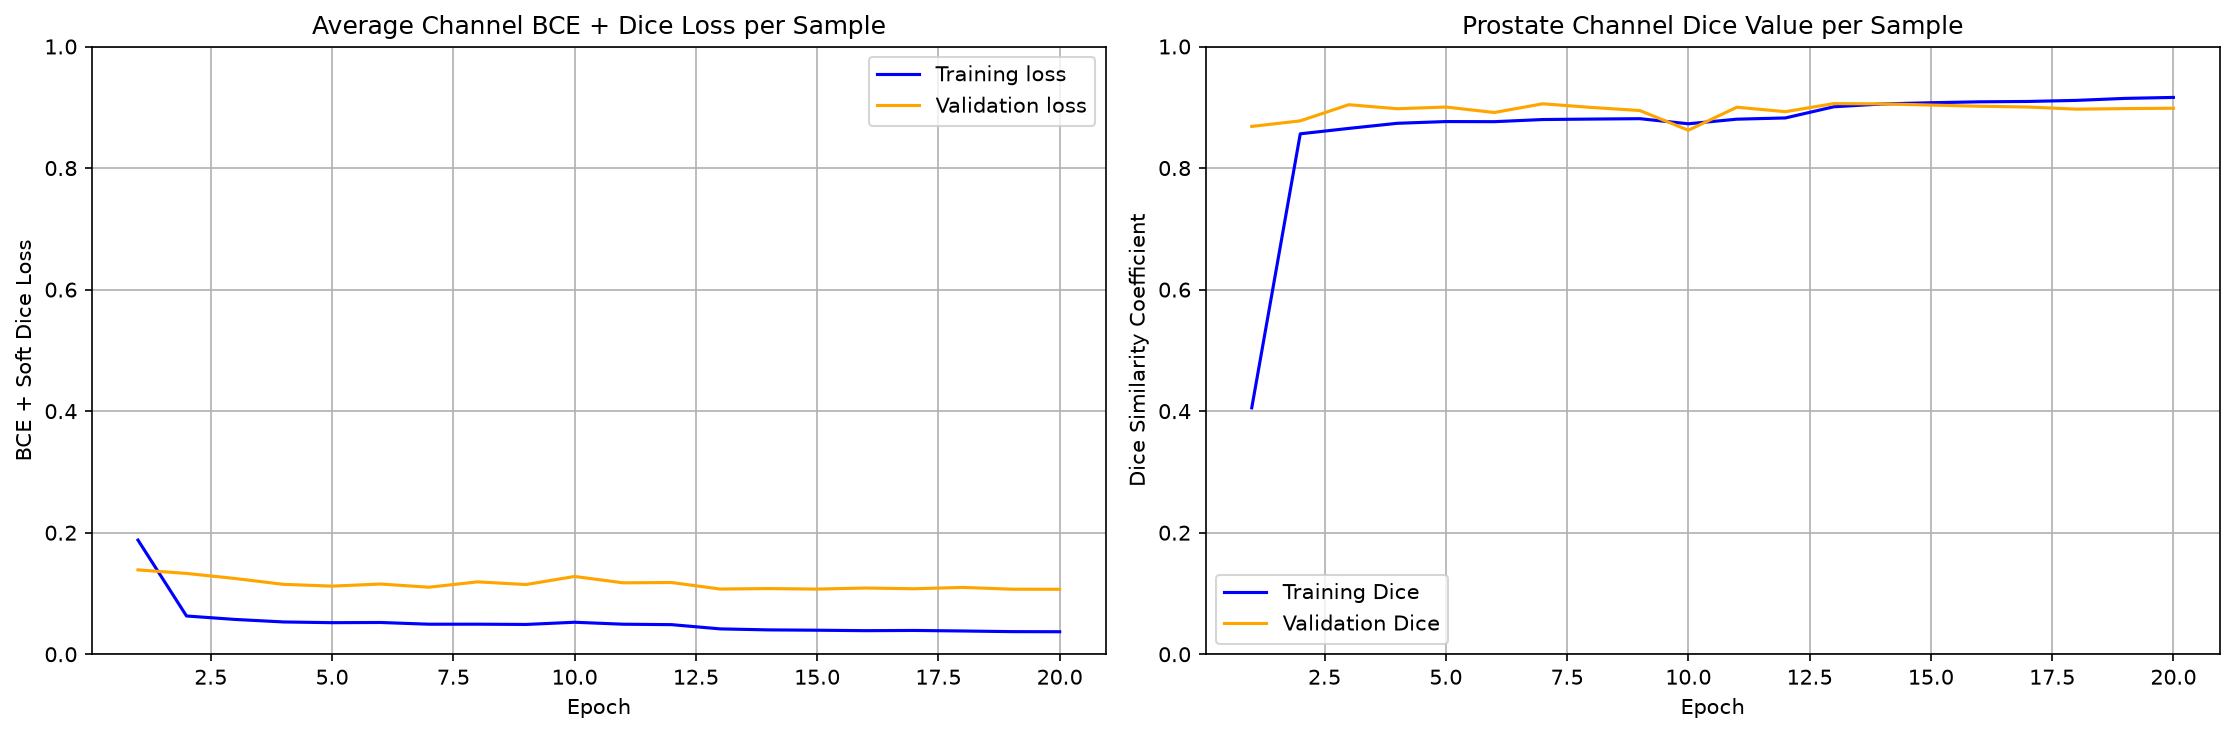
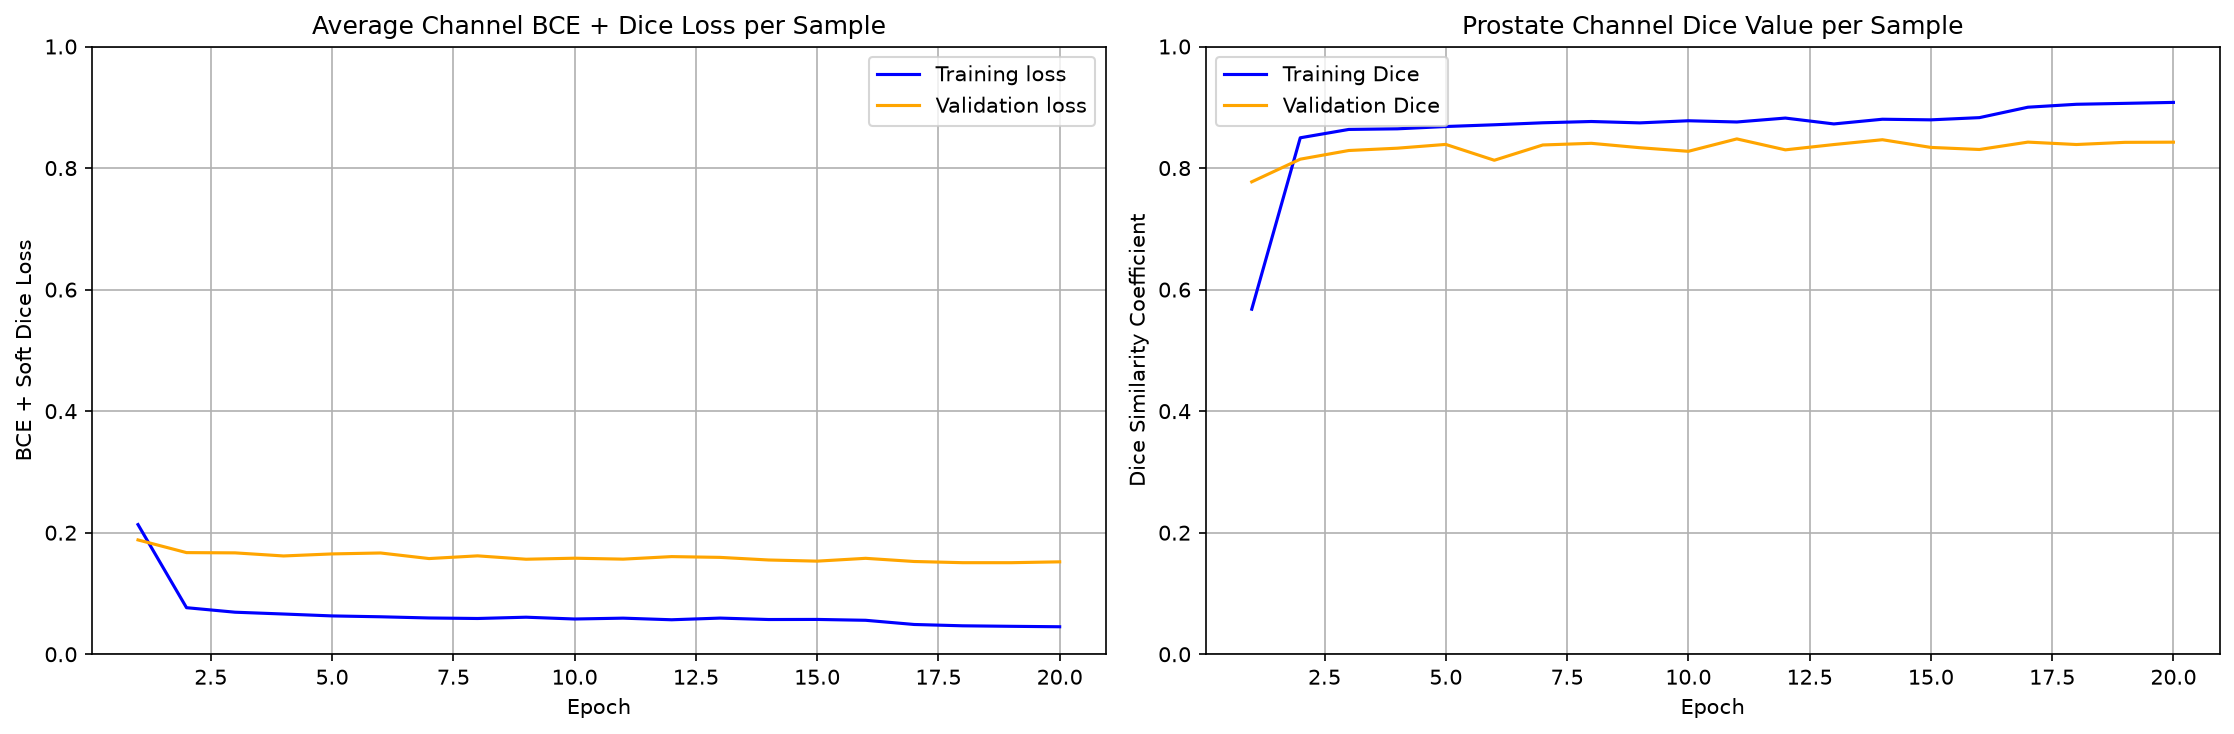
Update README to reflect new results.

diff --git a/recognition/UNet_s48831653/README.md b/recognition/UNet_s48831653/README.md
@@ -1,7 +1,11 @@
 # Evaluation of 2D U-Net vs 2D Convolutional Aggregate Network performance and resource use for the segmentation of HipMRI scans for targeted radiation therapy of the prostate
-Data were provided by HipMRI Study for image segmentation - https://arxiv.org/abs/1505.04597
+Data were provided by HipMRI Study for image segmentation - https://doi.org/10.1016/j.ijrobp.2015.08.045
 
 ## Overview of the Model
+### Model References
+- U-Net: Ronneberger, O., Fischer, P., & Brox, T. (2015). U-Net: Convolutional networks for biomedical image segmentation. arXiv (Cornell University). https://doi.org/10.48550/arxiv.1505.04597
+- CAN: Yu, F., & Koltun, V. (2015). Multi-scale context aggregation by dilated convolutions. arXiv.Org. https://doi.org/10.48550/arXiv.1511.07122
+
 A 2D U-Net and 2D convolutional aggregate network (CAN) have been implemented to aid in the segmentation of the prostate in HipMRI scans for the purpose of targeted radiation therapy. Due to the risks associated with both under- and over-contouring, it is of interest to compare the prostate segmentation accuracy and the resource requirements of both models to determine which is more appropriate for clinical use.
 
 The models can be trained by running train_and_validate(UNet, num_epochs) in train.py, inputting boolean variable 'UNet' to select which model. The model's time, Dice, Intersection Over Union, peak VRAM and number of parameters are reported. A training vs validation loss plot will be saved under "2Dmodel_loss_plot.png", and the optimal model will be saved under "best_2Dmodel.pth" where 'model' is either Unet or CAN.
@@ -36,7 +40,7 @@ This repository was trained and evaluated on the Rangpur HPC cluster with the fo
 - torchvision=0.22.1+cu118 
 - matplotlib=3.11.1 
 
-The results discussed in this report were produced without setting seed. If desired, the seeds for python, numpy and torch can be set for reproducible results.
+The results discussed in this report were produced without setting seed. Note, the results below follow the trend of the completed runs. If desired, the seeds for python, numpy and torch can be set for reproducible results.
 
 ## Data Preprocessing
 To prevent data-leakage, all MRI slices belonging to the same patient are strictly assigned to the same data split, as misleading results would be produced if the same anatomy were present across sets. Specifically, training was performed on slices from patients 4 to 35, validation on patients 36 to 39, and testing on patients 40-42.
@@ -50,12 +54,12 @@ Training and Validation is executed with train_and_validate() from train.py, wit
 
 Upon completion of all epochs, general performance values are reported. These are displayed below. Additionally, each training and validation epoch records their respective prostate channel loss per sample and average combined BCE and dice loss per channel per sample, which are graphed against epochs. These are also presented below, for each model.
 
-|**Training and Validation Performance Results**    | 2D U-Net | 2D CAN |
-| -------- | -------- | -------- |
-| Total Number of Trainable Parmeters               | 31,036,741 | 406,405  |
-| Peak Training/Validation GPU VRAM (GB)            | 3.2254     | 3.5261   |
-| Average Training/Validation Epoch Duration (s)    | 47.684     | 49.729s  |
-| Saved Model's Validation Prostate Dice            | 0.904217   | 0.906043 |
+|**Training and Validation Performance Results** | 2D U-Net   | 2D CAN     |
+| --------                                       | ---------- | ---------- |
+| Total Number of Trainable Parmeters            | 31,036,806 | 406,470    |
+| Peak Training/Validation GPU VRAM (GB)         | 3.2272     | 3.5300     |
+| Average Training/Validation Epoch Duration (s) | 48.983s    | 50.924s    |
+| Saved Model's Validation Prostate Dice         | 0.86442262 | 0.84794974 |
 
 ### Training and Validation Loss and Prostate Segmentation Dice per Epoch
 **2D UNet:**
@@ -69,69 +73,55 @@ Testing involves the evaluation of the model's prediction for each sample. These
 
 **Example prediction output image:**
 
-Mask Colour Key: *Prostate=Red, Body Outline/Rectum=Black, Bladder=Teal, Bone=Brown, Body=Green*
+Mask Colour Key: *Prostate=Yellow, Rectum=Red, Body Outline=Black, Bladder=Teal, Bone=Brown, Body=Green*
 
 Error Map Colour Key: *True Positive = Green, False Positive = Red, False Negative = Blue*
 ![alt text](Figures/prediction_image_example.png)
 
 |**Testing Performance Results**           | 2D U-Net | 2D CAN |
 | -------- | -------- | -------- |
-| Peak Testing GPU VRAM (GB)               | 1.1256     | 0.4079   |
-| Average Sample Evaluation Duration (s)   | 0.370087   | 0.367726 |
-| Average Testing Dice                     | 0.874180   | 0.878067 |
+| Peak Testing GPU VRAM (GB)               | 1.1328      | 0.4138      |
+| Average Sample Evaluation Duration (s)   | 0.37846585s | 0.37848915s |
+
+|**Dice/IoU Results**                     |2D U-Net Dice| 2D CAN Dice|2D U-Net IoU| 2D CAN IoU | 
+| --------                                 | --------   | --------   | --------   | --------   |
+| Average Testing Background Dice          | 0.97319245 | 0.97517681 | 0.94778460 | 0.95155615 |
+| Average Testing Body/Soft Tissue Dice    | 0.97836411 | 0.97835832 | 0.95764464 | 0.95763355 |
+| Average Testing Bone Dice                | 0.92803913 | 0.92811620 | 0.86573976 | 0.86587393 |
+| Average Testing Bladder Dice             | 0.95796382 | 0.96078819 | 0.91931915 | 0.92453551 |
+| Average Testing Rectum Dice              | 0.86962932 | 0.83781344 | 0.76933110 | 0.72089410 |
+| Average Testing Prostate Dice            | 0.86311150 | 0.86265260 | 0.75918740 | 0.75847768 |
 
 ## Discussion of Results
-The performance results outlined above, show comparable prostate channel dice scores during validation and testing, with a slightly larger decrease in the 2D U-Net's performance at testing. Similarly, the training times are comparable, with the U-Net being slightly faster to train and slower to evaluate.
+The performance results outlined above, show comparable prostate channel dice scores during validation and testing, with a slightly larger decrease in the 2D U-Net's performance at testing. Additionally, the U-Net training is slightly slower and the evaluation time (including image construction) is equal.
 
-The greatest difference in the models is the number of trainable parameters, which is significantly larger for the U-Net in comparison to the CAN. This likely contributes to the approximately tripled GPU VRAM peak observed during testing. Additionally, observation of the loss plots, suggests the CAN provides stabler training, in comparison to the U-Net. Specifically, the CAN appears to stabilise after epoch 4 with stable and approximately equal Dice scores. The U-Net validation loss stablises after 15 epochs, and has significant variation in prostate channel dice in comparison to the CAN plot.
+The greatest difference in the models is the number of trainable parameters, which is significantly larger for the U-Net in comparison to the CAN. This likely contributes to the approximately tripled GPU VRAM peak observed during testing. Additionally, observation of the loss plots suggests the CAN provides stabler training, in comparison to the U-Net. In particular, the CAN's prostate validation Dice has less variation and closer to the training validation.
 
 Upon inspection of the prediction results, transitions between neighbouring slices produced by the CAN are notably smoother compared to the UNet model. Regardless, both models were observed to have the following common failure cases:
 
 ### 1. Small prostate false negatives:
-Often occurs in the MRI slices where the prostate initially appears or where a new prostate segment appears separate from a pre-existing section, that combine in a later sample. Due to the small area of these segments, both the 2D U-Net and 2D CAN models, will produce false negatives. This is likely due to the similarities with neighbouring samples with almost identical anatomical structure but with no prostate segmentations. Additionally, these small prostate segmentation cases may only be reflected in the initial 2-3 slices from a scan, where the more general prostate segmentation case would have 10-15 slices to train with, and so, the model is less familiar with predicting small prostate segments. Examples of these false negative predictions are given below, where the false negative segmentations are blue in the error map.
+Prostate false negatives often occur in the MRI where the prostate initially appears as a small segmentation. This is likely due to the similarities with neighbouring samples with almost identical anatomical structure but with no prostate segmentations. Additionally, these small prostate segmentation cases may only be reflected in the initial 2-3 slices from a scan, where the more general prostate segmentation case would have 10-15 slices to train with, and so, the model is less familiar with predicting small prostate segments. An example of these false negative predictions are given below, where the false negative segmentation is blue in the error map.
 
-**Example false negative prediction of an initial small prostate segmentations:**
+**Example false positive small prostate segmentations:**
+![alt text](Figures/example_case1.png)
 
-![alt text](Figures/ex_FN_initial_segment.png)
+### 2. False positive prostate segmentation neighbouring the bladder:
+False positive prostate segmentations were observed to often occur between the prostate and the bladder, for both models. This most commonly occurred where the prostate and bladder segmentations separate, with the models predicting this separation later in the patient's set of MRI scans. This is likely due to a greater abundance of training samples with the prostate and bladder segmentations neighbouring each other and a lack of 3D spatial context, since the models are predicting these segmentations independent of the adjacent MRI slices. An example of this false positive segmentation is given below. 
 
-**Example false negative prediction of new small prostate segmentations:**
+**Example false positive prostate segmentations neighbouring the bladder:**
+![alt text](Figures/example_case2.png)
 
-![alt text](Figures/ex_FN_new_segment.png)
+### 3. False positive prostate segmentation replacing the rectum:
+False positive prostate segmentations were observed to be predicted at the ground truth rectum segmentation. This most often occurred where the rectum initially appeared, and so, likely is a result of limited samples of this case. Additionally, because the model's are independently predicting these MRI slices, they lack the 3D spatial context that indicates when this case appears compared to adjacent samples. Examples of this case are given below
 
-### 2. Small prostate false positives:
-Similarly to failure case 1, this will occur in MRI slices where the prostate is expected to initially appear, or new segments usually appear. This occurs in both the 2D U-Net and 2D CAN models, where the model will predict a small new prostate segment that is not present in the sample. This is likely due to the same reasons as described in failure case 1 above. Examples of these false positive predictions are given below, where the false positive segmentations are red in the error map.
+**Example false positive prostate segmentation, replacing the rectum:**
+![alt text](Figures/example_case3-1.png)
+![alt text](Figures/example_case3-2.png)
 
-**Example false positive prediction of new small prostate segmentations:**
+## Conclusion
+The 2D CAN is recommended over the 2D U-Net for use in segmenting the prostate in HipMRI images. In comparison to the U-Net, the CAN reported approximately equal channel dice during validation and testing. Both models had equal training time per epoch, and the VRAM requirements during evaluation are three times lower for the CAN model. The CAN was observed to produce more continuous neighbouring slice results, and noticeably stabler prostate dice during validation.
 
-![alt text](Figures/ex_FP_initial_segment.png)
-
-**Example false positive prediction of new small prostate segmentations:**
-
-![alt text](Figures/ex_FP_new_segment.png)
-
-### 3. False negatives at neighbouring rectum segmentations
-Both the 2D U-Net and 2D CAN will predict false negatives in slices where the rectum segmentation is vanishing and the prostate segmentation appears. This likely occurs as the prostate and rectum segmentations are often in the same position with similar shape, or are closely neighbouring each other. Hence, both convolution models will associate the same features with both the rectum and prostate segmentations, resulting in the false negatives often observed in the predictions. This most commonly appears as a false negative as the vanishing rectum segmentation is more gradual than the prostate segmentation appearance, and therefore has greater representation in the training set. Therefore the model will predict the rectum segmentation over the prostate, resulting in the false negative predictions that have been observed. Two example cases of this are pictured below.
-
-**Example false negative predictions of rectum segmentations:**
-
-![alt text](Figures/ex_FN_rectum1.png)
-
-![alt text](Figures/ex_FN_rectum2.png)
-
-### 4. False positives in the body segment
-Due to the similarity in appearance between the prostate and neighbouring anatomy, such as the bowels. Both models, will sometimes produce false positive prostate predictions instead of the correct body segmentation. An example of this is given below.
-
-**Example false positive prostate prediction of the body:**
-
-![alt text](Figures/ex_FP_body.png)
-
-
-## Verdict
-The 2D CAN is recommended over the 2D U-Net for use in segmenting the prostate in HipMRI images. In comparison to the U-Net, the CAN reported approximately equal channel dice during validation and testing. Additionally, both models had equal training time per epoch with the CAN required significantly less epochs, to reach stability. Finally, the VRAM requirements during evaluation are three times lower for the CAN model.
-
-These results suggest the added context introduced by dilations in the CAN, are more suitable for use in MRI segmentation. Additionally, the CAN was observed to produce more continuous neighbouring slice results. 
-
-The 2D CAN does display evidence of common failure cases, especially for the initial MRI slices involving the prostate and differentiating the prostate segmentation from the rectum. It is recommended that 3D U-Net and 3D CAN models, are implemented to determine if these failure cases can be avoided with volumetric context, and whether the increased time and memory resources are worth 
+These results suggest the added context introduced by dilations in the CAN, are more suitable for use in MRI segmentation. The 2D CAN does display evidence of common failure cases, especially for the initial MRI slices involving the prostate and differentiating the prostate segmentation from the rectum/bladder. It is recommended that 3D U-Net and 3D CAN models, are implemented to determine if these failure cases can be avoided with volumetric context, and whether the increased time and memory resources of these models are outbalanced by these results.
 
 ## Artificial Intelligence Usage Disclosure:
 Gemini used:
@@ -176,3 +166,5 @@ If the 3D U-Net segmentation model cannot be implemented, a 2D improved U-Net wi
 - Singh, A., Sharma, A., & Abdul, A. (2025). 3D u-net vs. 2D u-net for brain MRI segmentation: A comparative study on accuracy and efficiency. Journal of Basic Science and Engineering, 22(1), 487. https://doi.org/10.10399/JBSE.2025237518 
 
 - Woo, B., & Lee, M. (2021). Comparison of tissue segmentation performance between 2D u-net and 3D u-net on brain MR images. 2021 International Conference on Electronics, Information, and Communication (ICEIC), 1–4. https://ieeexplore.ieee.org/document/9369797 
+
+Note: the 3D U-Net was not implemented as discussed in the feasibility review. Instead, the 2D CAN so that the same dataloading and testing structures could be used, so that the model could be appropriately trained and analysed.
